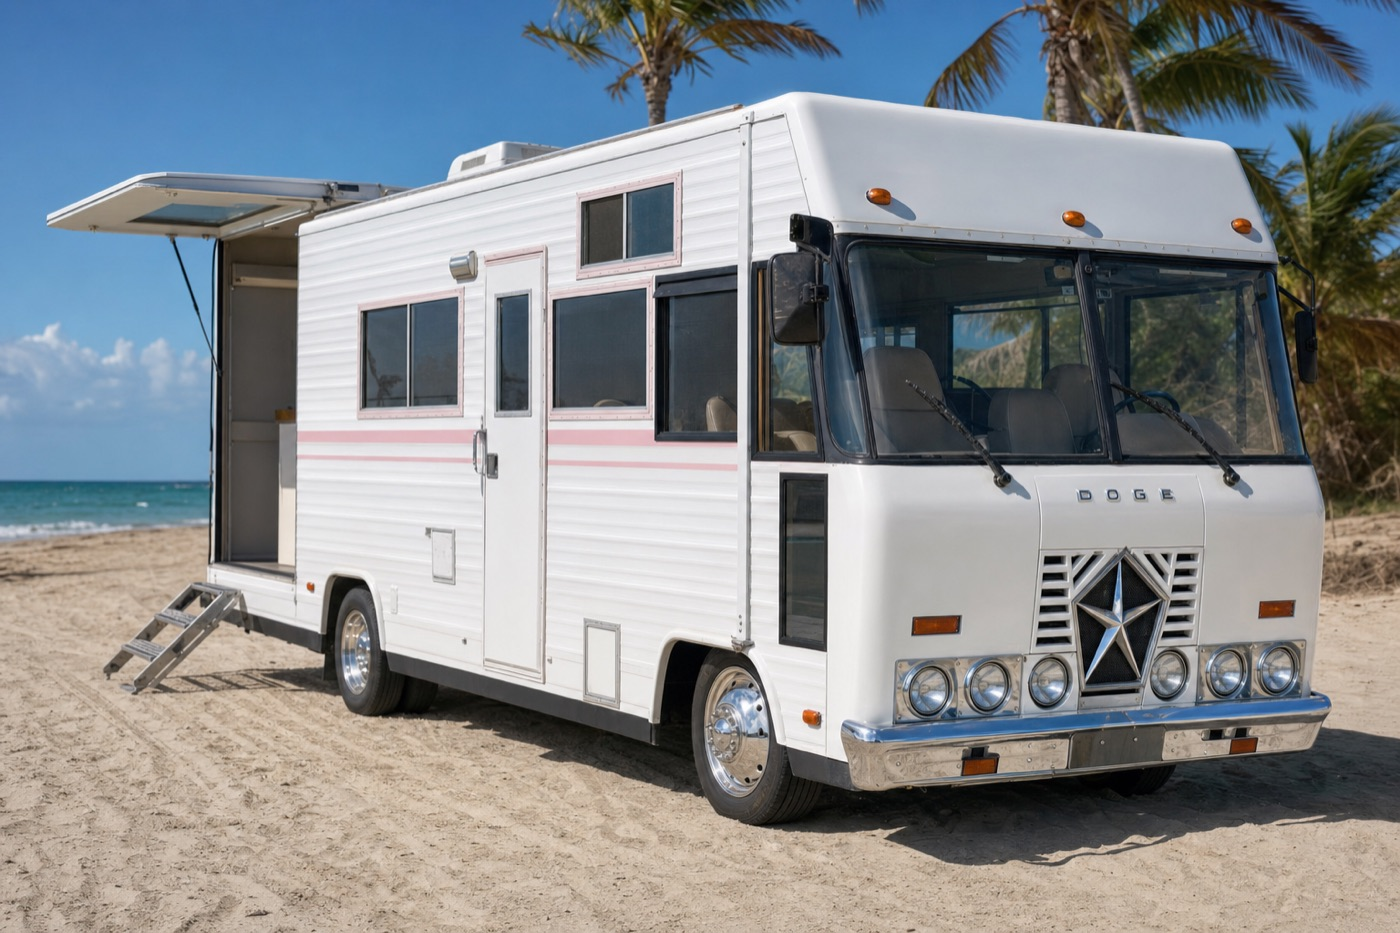
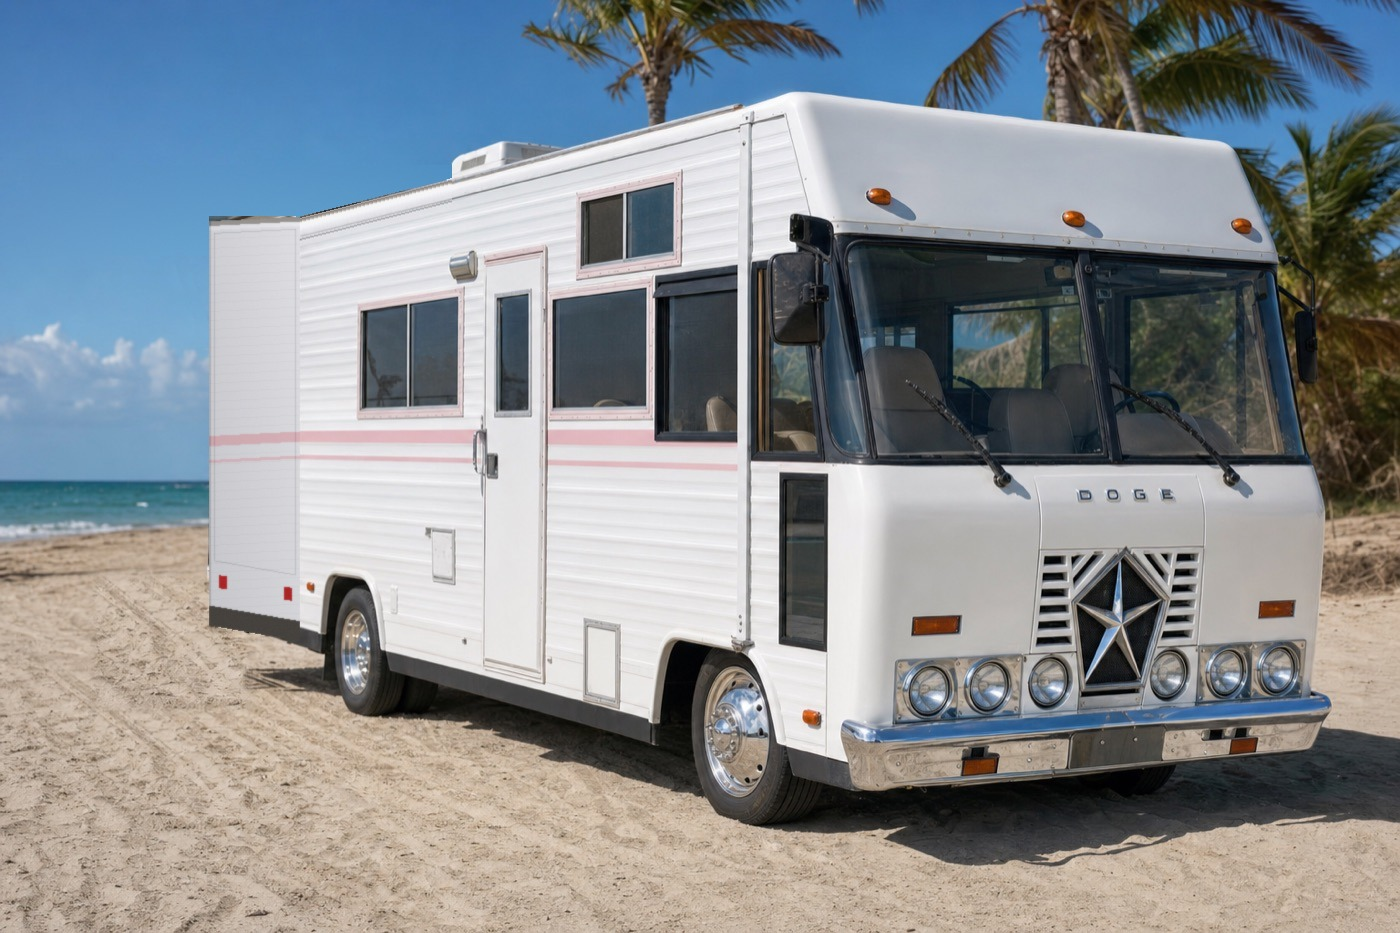
icecreamvan: fix gallery renders (front closed up, sink on correct side)
front.jpg showed the hatch swinging out sideways; it now shows the van
closed up (hatch shut, stairs stowed). rear.jpg is mirrored so the sink
sits on the correct side.

Claude-Session: https://claude.ai/code/session_01Nj4W7EkcJzsqnb73FZCDg4

Changed region(s): [[0.0307, 0.1865, 0.3379, 0.7771]]

diff --git a/packages/nouns-webapp/public/icecreamvan/index.html b/packages/nouns-webapp/public/icecreamvan/index.html
@@ -276,7 +276,7 @@ footer{padding-block:40px 60px;font:500 12px var(--mono);color:var(--muted)}
     <img src="img/rear-shop.jpg" alt="Shop open with clothes rail" loading="lazy">
     <img src="img/inside.jpg" alt="Inside from the back" loading="lazy">
     <img src="img/lookout.jpg" alt="Looking out to the sea" loading="lazy">
-    <img src="img/front.jpg" alt="Front with DOGE letters" loading="lazy">
+    <img src="img/front.jpg" alt="Front with DOGE letters, closed up" loading="lazy">
     <img src="img/side-pink.jpg" alt="Side, pink trim" loading="lazy">
   </div>
   <p class="note"><span class="es">Renders con IA del diseño, no fotos.</span><span class="en">AI renders of the design, not photos.</span></p>
